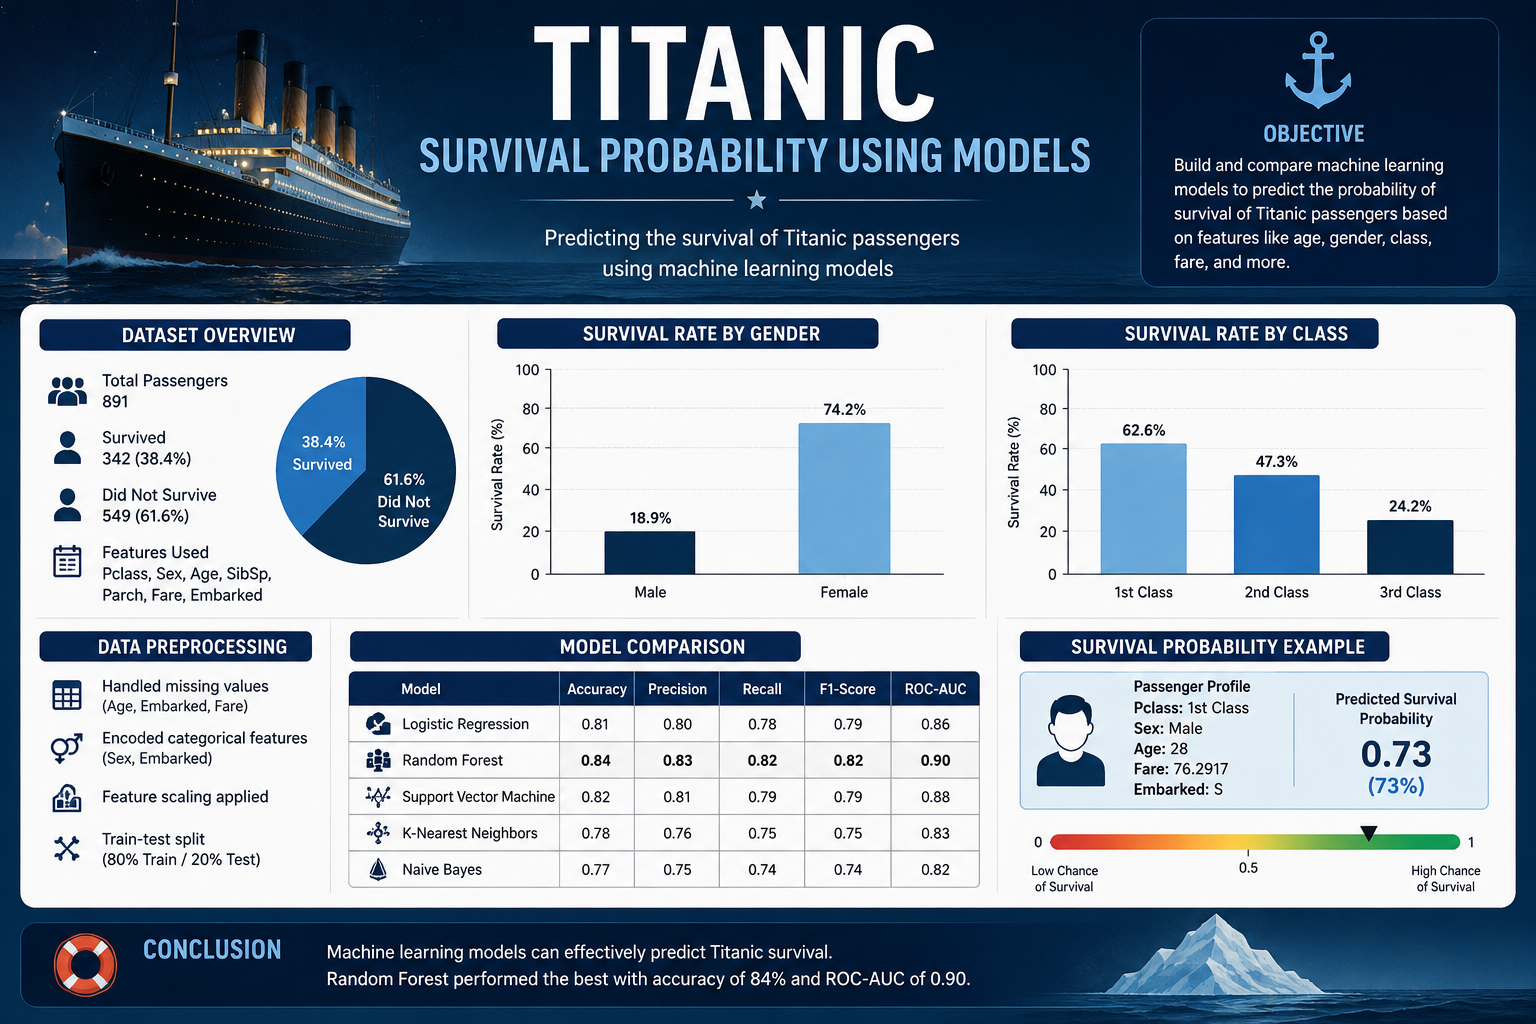
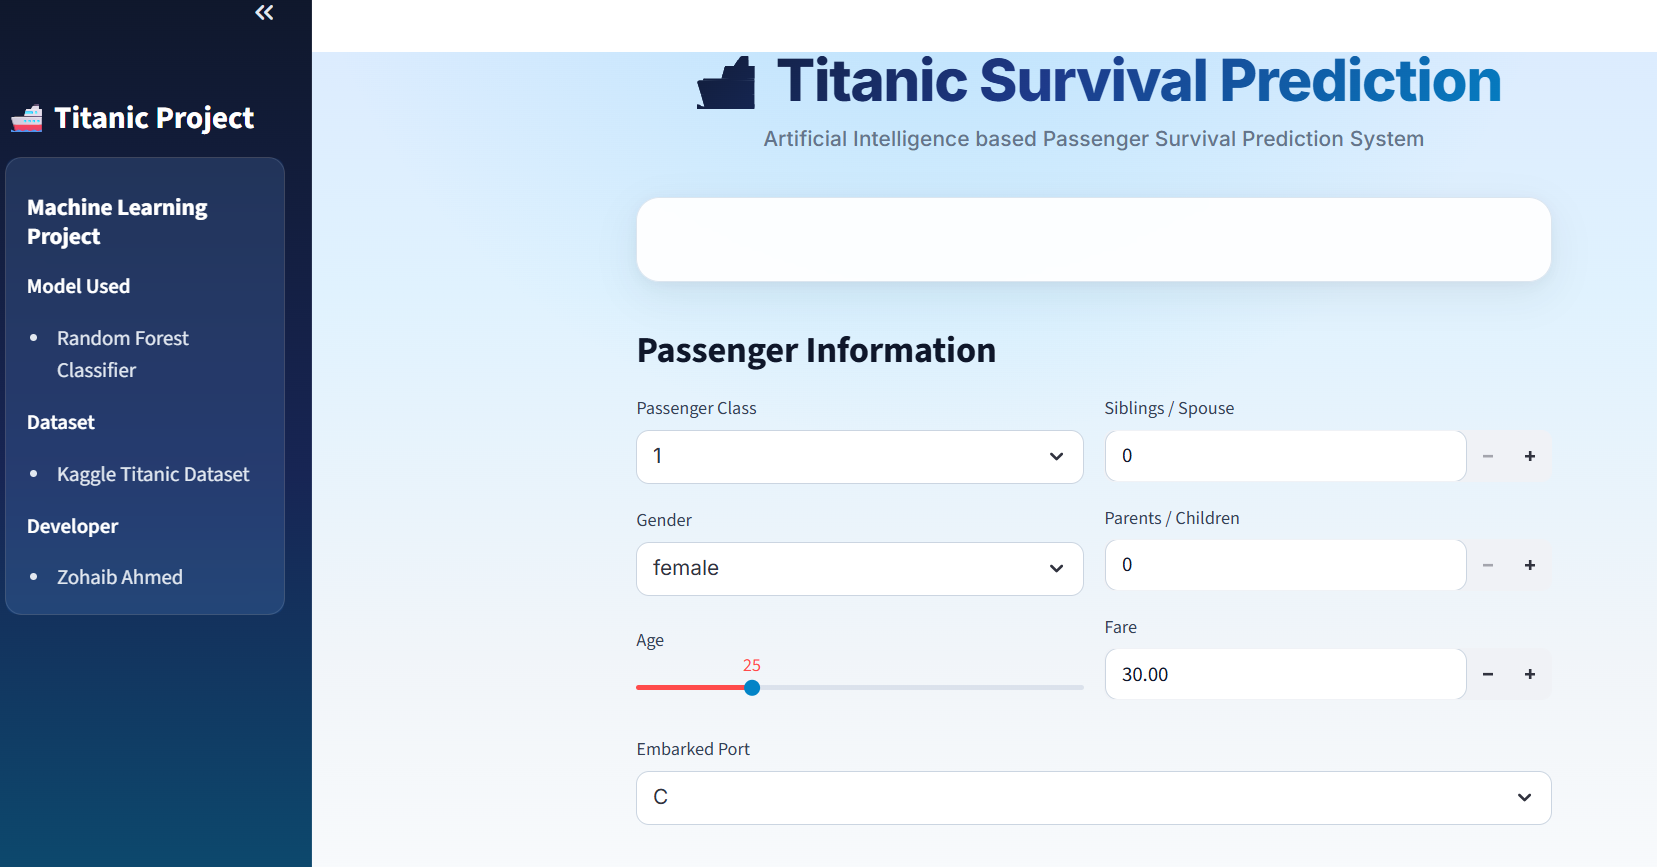
Add AI interview project and Titanic GitHub link

diff --git a/index.html b/index.html
@@ -288,6 +288,114 @@
         </article>
 
         <!-- Project 2 -->
+
+        <article class="project-card reveal" aria-label="Titanic Survival Predictor project">
+          <div class="project-thumb">
+            <img src="./data/Titanic.png" alt="Titanic Survival Predictor model output screenshot" loading="lazy" />
+            <div class="project-overlay" aria-hidden="true"></div>
+          </div>
+
+          <div class="project-body">
+            <div class="project-tags">
+              <span class="tag">Python</span>
+              <span class="tag">Data Analysis</span>
+              <span class="tag">Machine Learning</span>
+              <span class="tag">Scikit-Learn</span>
+              <span class="tag">Streamlit</span>
+            </div>
+
+            <h3 class="project-title">Titanic Survival Predictor</h3>
+
+            <p class="muted project-desc">
+              Machine learning model predicting passenger survival probability based
+              on historical Titanic data, with a Streamlit interface for making
+              predictions on new passenger data.
+            </p>
+
+            <div class="project-links">
+              <a class="btn btn-sm btn-outline" href="xizohaib/Titanic-Survival-Prediction" target="_blank"
+                rel="noopener noreferrer" aria-label="View Titanic Survival Predictor on GitHub">
+
+                <svg width="14" height="14" viewBox="0 0 24 24" fill="currentColor" aria-hidden="true">
+                  <path d="M12 0C5.374 0 0 5.373 0 12c0 5.302 3.438 9.8
+            8.207 11.387.599.111.793-.261.793-.577v-2.234
+            c-3.338.726-4.033-1.416-4.033-1.416-.546-1.387
+            -1.333-1.756-1.333-1.756-1.089-.745.083-.729.083-.729
+            1.205.084 1.839 1.237 1.839 1.237 1.07 1.834
+            2.807 1.304 3.492.997.107-.775.418-1.305.762-1.604
+            -2.665-.305-5.467-1.334-5.467-5.931 0-1.311.469-2.381
+            1.236-3.221-.124-.303-.535-1.524.117-3.176 0 0
+            1.008-.322 3.301 1.23A11.509 11.509 0 0 1 12 5.803
+            c1.02.005 2.047.138 3.006.404 2.291-1.552
+            3.297-1.23 3.297-1.23.653 1.653.242 2.874.118 3.176
+            .77.84 1.235 1.911 1.235 3.221 0 4.609-2.807
+            5.624-5.479 5.921.43.372.823 1.102.823 2.222v3.293
+            c0 .319.192.694.801.576C20.566 21.797 24 17.3 24 12
+            c0-6.627-5.373-12-12-12z" />
+                </svg>
+
+                View Code
+              </a>
+            </div>
+          </div>
+        </article>
+
+        <!-- Project 3 -->
+        <article class="project-card reveal" aria-label="AI Interview Preparation System project">
+          <div class="project-thumb">
+            <img src="./data/ai interview .png" alt="AI Interview Preparation System dashboard screenshot"
+              loading="lazy" />
+            <div class="project-overlay" aria-hidden="true"></div>
+          </div>
+
+          <div class="project-body">
+            <div class="project-tags">
+              <span class="tag">Python</span>
+              <span class="tag">React</span>
+              <span class="tag">Flask</span>
+              <span class="tag">MongoDB</span>
+              <span class="tag">Gemini AI</span>
+              <span class="tag">JWT</span>
+            </div>
+
+            <h3 class="project-title">Interview Preparation System</h3>
+
+            <p class="muted project-desc">
+              AI-powered interview preparation platform that generates domain- and
+              difficulty-based MCQs, tracks user performance, and provides detailed
+              results and improvement insights.
+            </p>
+
+            <div class="project-links">
+              <a class="btn btn-sm btn-outline" href="https://github.com/xizohaib/Ai-based-Interview-Preparation-System"
+                target="_blank" rel="noopener noreferrer" aria-label="View AI Interview Preparation System on GitHub">
+
+                <svg width="14" height="14" viewBox="0 0 24 24" fill="currentColor" aria-hidden="true">
+                  <path d="M12 0C5.374 0 0 5.373 0 12c0 5.302 3.438 9.8
+            8.207 11.387.599.111.793-.261.793-.577v-2.234
+            c-3.338.726-4.033-1.416-4.033-1.416-.546-1.387
+            -1.333-1.756-1.333-1.756-1.089-.745.083-.729.083-.729
+            1.205.084 1.839 1.237 1.839 1.237 1.07 1.834
+            2.807 1.304 3.492.997.107-.775.418-1.305.762-1.604
+            -2.665-.305-5.467-1.334-5.467-5.931 0-1.311.469-2.381
+            1.236-3.221-.124-.303-.535-1.524.117-3.176 0 0
+            1.008-.322 3.301 1.23A11.509 11.509 0 0 1 12 5.803
+            c1.02.005 2.047.138 3.006.404 2.291-1.552
+            3.297-1.23 3.297-1.23.653 1.653.242 2.874.118 3.176
+            .77.84 1.235 1.911 1.235 3.221 0 4.609-2.807
+            5.624-5.479 5.921.43.372.823 1.102.823 2.222v3.293
+            c0 .319.192.694.801.576C20.566 21.797 24 17.3 24 12
+            c0-6.627-5.373-12-12-12z" />
+                </svg>
+
+                View Code
+              </a>
+            </div>
+          </div>
+        </article>
+
+
+        <!-- Project 4 -->
         <article class="project-card reveal" aria-label="MERN Todo App project">
           <div class="project-thumb">
             <img src="./data/Todo_Dashboard.png" alt="MERN Todo App dashboard screenshot" loading="lazy" />
@@ -318,7 +426,7 @@
           </div>
         </article>
 
-        <!-- Project 3 -->
+        <!-- Project 5 -->
         <article class="project-card reveal" aria-label="Notes App project">
           <div class="project-thumb">
             <img src="./data/Notes_Dashboard.png" alt="Notes App dashboard screenshot" loading="lazy" />
@@ -349,7 +457,7 @@
           </div>
         </article>
 
-        <!-- Project 4 -->
+        <!-- Project 6 -->
         <article class="project-card reveal" aria-label="Authentication System project">
           <div class="project-thumb">
             <img src="./data/authentication.png" alt="Authentication System interface screenshot" loading="lazy" />
@@ -372,49 +480,8 @@
           </div>
         </article>
 
-        <!-- Project 5 -->
-        <article class="project-card reveal" aria-label="Web Calculator project">
-          <div class="project-thumb">
-            <img src="./data/Caculator.png" alt="Web Calculator screenshot" loading="lazy" />
-            <div class="project-overlay" aria-hidden="true"></div>
-          </div>
-          <div class="project-body">
-            <div class="project-tags">
-              <span class="tag">HTML</span>
-              <span class="tag">CSS</span>
-              <span class="tag">JavaScript</span>
-            </div>
-            <h3 class="project-title">Web Calculator</h3>
-            <p class="muted project-desc">
-              Responsive calculator built with HTML, CSS, and JavaScript featuring a clean and accessible UI.
-            </p>
-            <div class="project-links">
-              <span class="no-link-note">No Repository Link</span>
-            </div>
-          </div>
-        </article>
 
-        <!-- Project 6 -->
-        <article class="project-card reveal" aria-label="Titanic Survival Predictor project">
-          <div class="project-thumb">
-            <img src="./data/Titanic.png" alt="Titanic Survival Predictor model output screenshot" loading="lazy" />
-            <div class="project-overlay" aria-hidden="true"></div>
-          </div>
-          <div class="project-body">
-            <div class="project-tags">
-              <span class="tag">Python</span>
-              <span class="tag">Data Analysis</span>
-              <span class="tag">Scikit-Learn</span>
-            </div>
-            <h3 class="project-title">Titanic Survival Predictor</h3>
-            <p class="muted project-desc">
-              Machine learning model predicting passenger survival probability based on historical Titanic data.
-            </p>
-            <div class="project-links">
-              <span class="no-link-note">No Repository Link</span>
-            </div>
-          </div>
-        </article>
+
 
       </div>
     </div>
